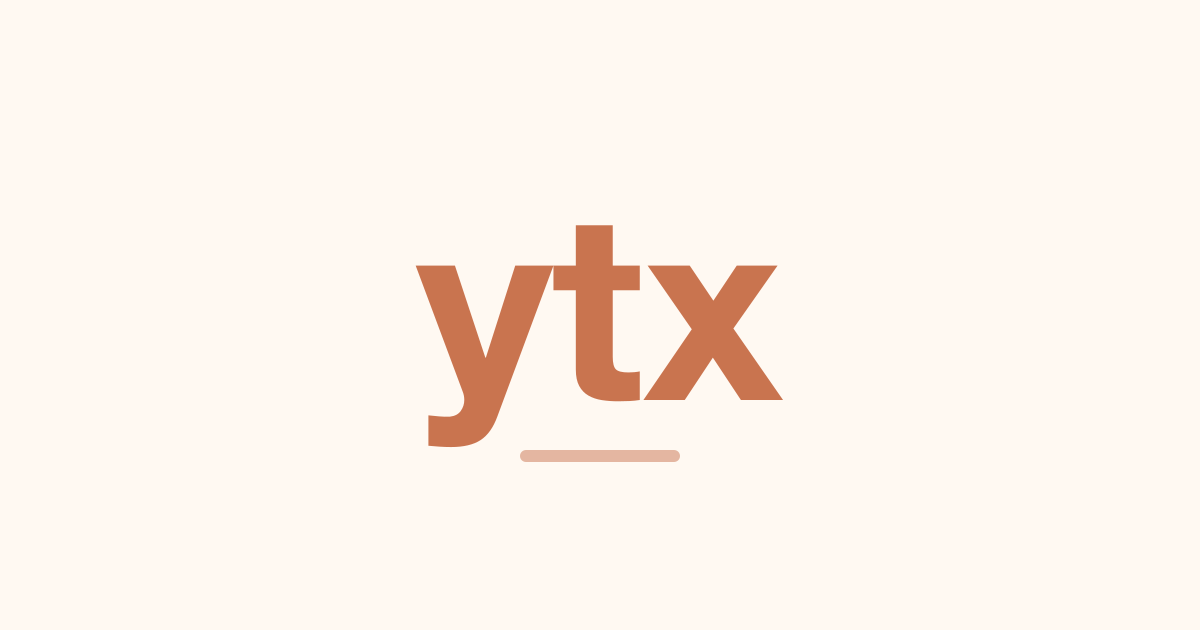
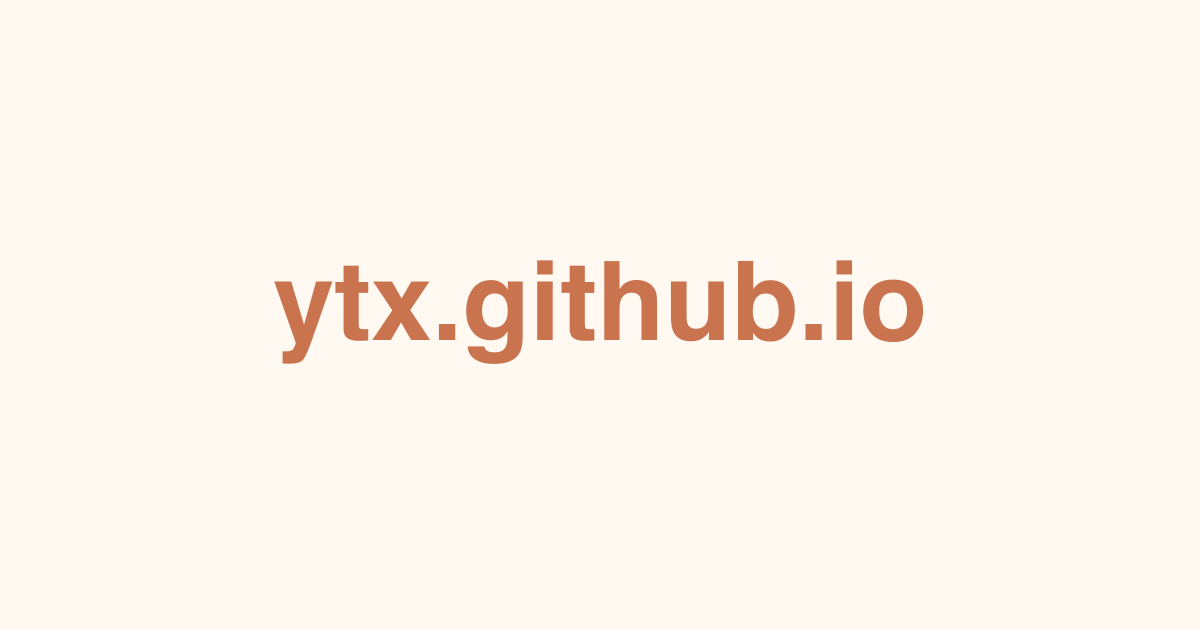
サイト名・著作権表示・ボタン挙動・記事サムネイルの既定画像を変更し、AI 用プロンプトを README に追加

Changed region(s): [[0.2158, 0.3619, 0.7708, 0.7238], [0.4317, 0.6937, 0.5858, 0.754]]

diff --git a/tests/components/layout.test.ts b/tests/components/layout.test.ts
@@ -30,7 +30,7 @@ describe("Footer / SectionHead", () => {
   test("footer renders copyright", async () => {
     const html = await container.renderToString(Footer, { props: { lang: "ja" } });
     expect(html).toContain("<footer");
-    expect(html).toContain("© ytx");
+    expect(html).toContain(`© yuichi TAKAHASHI 2025-${new Date().getFullYear()}`);
   });
   test("SectionHead renders more link", async () => {
     const html = await container.renderToString(SectionHead, {
@@ -49,7 +49,7 @@ describe("Base", () => {
       request: new Request("https://ytx.github.io/"),
     });
     expect(html).toContain('<html lang="ja"');
-    expect(html).toContain("<title>テスト | ytx</title>");
+    expect(html).toContain("<title>テスト | ytx.github.io</title>");
     expect(html).toContain('rel="alternate" hreflang="ja" href="https://ytx.github.io/"');
     expect(html).toContain('rel="alternate" hreflang="en" href="https://ytx.github.io/en/"');
     expect(html).toContain('hreflang="x-default" href="https://ytx.github.io/"');

diff --git a/src/i18n/en.ts b/src/i18n/en.ts
@@ -1,7 +1,7 @@
 import type { ja } from "./ja";
 
 export const en: Record<keyof typeof ja, string> = {
-  siteName: "ytx",
+  siteName: "ytx.github.io",
   "nav.label": "Main navigation",
   "blog.filterLabel": "Filter by category",
   "nav.works": "Works",
@@ -31,7 +31,7 @@ export const en: Record<keyof typeof ja, string> = {
   "lang.switch": "日本語",
   "notfound.title": "Page not found",
   "notfound.back": "Back to top",
-  "footer.copyright": "© ytx",
+  "footer.copyright": "© yuichi TAKAHASHI 2025-{year}",
   "breadcrumb.home": "Home",
   "a11y.prev": "Previous",
   "a11y.next": "Next",

diff --git a/src/i18n/ja.ts b/src/i18n/ja.ts
@@ -1,5 +1,5 @@
 export const ja = {
-  siteName: "ytx",
+  siteName: "ytx.github.io",
   "nav.label": "メインナビゲーション",
   "blog.filterLabel": "カテゴリで絞り込む",
   "nav.works": "Works",
@@ -29,7 +29,7 @@ export const ja = {
   "lang.switch": "EN",
   "notfound.title": "ページが見つかりません",
   "notfound.back": "トップへ戻る",
-  "footer.copyright": "© ytx",
+  "footer.copyright": "© yuichi TAKAHASHI 2025-{year}",
   "breadcrumb.home": "ホーム",
   "a11y.prev": "前へ",
   "a11y.next": "次へ",

diff --git a/src/lib/rss.ts b/src/lib/rss.ts
@@ -8,7 +8,7 @@ import { postUrl } from "./urls";
 export async function feed(context: APIContext, lang: Lang) {
   const posts = await getPosts(lang);
   return rss({
-    title: "ytx",
+    title: t(lang, "siteName"),
     description: t(lang, "blog.sub"),
     site: context.site!,
     items: posts.map(({ data, slug }) => ({

diff --git a/README.md b/README.md
@@ -44,6 +44,8 @@ published: 2026-03-12
 本文。
 ```
 
+`thumbnail` は省略できる。指定すると記事カードと記事ページの先頭に表示される。省略したときは `src/assets/post-placeholder.png` が使われる（既定の画像を変えたいときはこのファイルを差し替える）。
+
 ## 英語版を追加する
 
 日本語版と同じ場所に `.en` を付けたファイルを置く（記事は `oil-change.en.md`、作品は `green/index.en.md`）。作品の英語版は `title` と `summary` だけ書けばよく、`url` などは日本語版から引き継ぐ。英語版が無いページは、日本語の内容がそのまま表示される。
@@ -57,6 +59,59 @@ published: 2026-03-12
 ---
 
 Body text.
+```
+
+## AI に書いてもらう
+
+下のプロンプトをそのまま AI に貼り付け、`【】` の部分を書き換えて使う。出力されたファイルは所定の場所に置く。
+
+### 作品の紹介文を書いてもらう
+
+```text
+あなたは個人サイトの作品紹介を書くライターです。次の作品の紹介ページを、日本語版と英語版で書いてください。
+
+【作品の情報】
+- 名前：【作品名】
+- URL：【https://...】
+- 何をするものか：【機能や特徴を数行で】
+- 読者：講演の参加者、仕事で関わる方（専門知識のない人も含む）
+
+【書いてほしいもの】
+1. summary：1 行、30 文字くらい。やわらかい口調で。
+2. 本文（Markdown）：短い段落を 2〜4 つ。何であるか／誰に向くか／始め方／データやプライバシーに関する注意（必要なときだけ）。
+3. 英語版の summary と本文。
+
+【出力形式】
+完成した `index.md` と `index.en.md` を、それぞれコードブロックで出力してください。
+frontmatter はこのサイトの形式に合わせます。
+- index.md：title, summary, type（app か web）, url, repo, thumbnail, youtube, featured, order, parent, tags, published
+- index.en.md：title, summary のみ
+わからない項目は、`# repo: ` のようにコメントアウトした空欄で残してください。推測で埋めないでください。
+絵文字は使わないでください。
+```
+
+### ブログ記事を書いてもらう
+
+```text
+あなたは個人ブログの書き手です。次の内容で記事を書いてください。
+
+【条件】
+- テーマ：【記事のテーマ】
+- カテゴリ：【gadget / car / car/maintenance / travel / diy / howto のどれか】
+- 要点やメモ：【箇条書きで、わかっていること・伝えたいこと】
+- 長さ：【例：1500 字くらい】
+- 関連する作品（あれば）：【作品の slug】
+
+【書き方】
+- 本文は Markdown。見出しは h2 と h3 で構成する（h1 は使わない）。
+- 親しみやすく、簡潔な文体。絵文字は使わない。
+- 事実がわからない箇所は書き足さず、「要確認」と書いて残す。
+
+【出力形式】
+完成した `<slug>.md` を、frontmatter 付きでコードブロックに出力してください。
+frontmatter：title, description（一覧や SNS に出る短い説明）, category, work, thumbnail, published（YYYY-MM-DD）, updated, draft（下書きなら true）。使わない項目は省いてかまいません。
+slug は英数字とハイフンだけにしてください。親カテゴリの直下に置く記事の slug は、その親の子カテゴリ slug（例：car の下に maintenance）と同じにできません。
+希望があれば、英語版の `<slug>.en.md` も同じ形式で出力してください。
 ```
 
 ## カテゴリを追加する

diff --git a/src/content/works/kaji0/index.md b/src/content/works/kaji0/index.md
@@ -1,5 +1,5 @@
 ---
-title: kaji⭕
+title: KAJI⭕
 summary: 家事の記録と分担
 type: web
 url: https://kaji0.trusted-host.online/
@@ -8,4 +8,4 @@ order: 20
 published: 2026-04-01
 ---
 
-kaji⭕ の紹介文（仮）です。あとで書き直します。
+KAJI⭕ の紹介文（仮）です。あとで書き直します。

diff --git a/src/content/works/kaji0/index.en.md b/src/content/works/kaji0/index.en.md
@@ -1,6 +1,6 @@
 ---
-title: kaji⭕
+title: KAJI⭕
 summary: Record and share household chores.
 ---
 
-This is placeholder text introducing kaji⭕. It will be rewritten later.
+This is placeholder text introducing KAJI⭕. It will be rewritten later.
